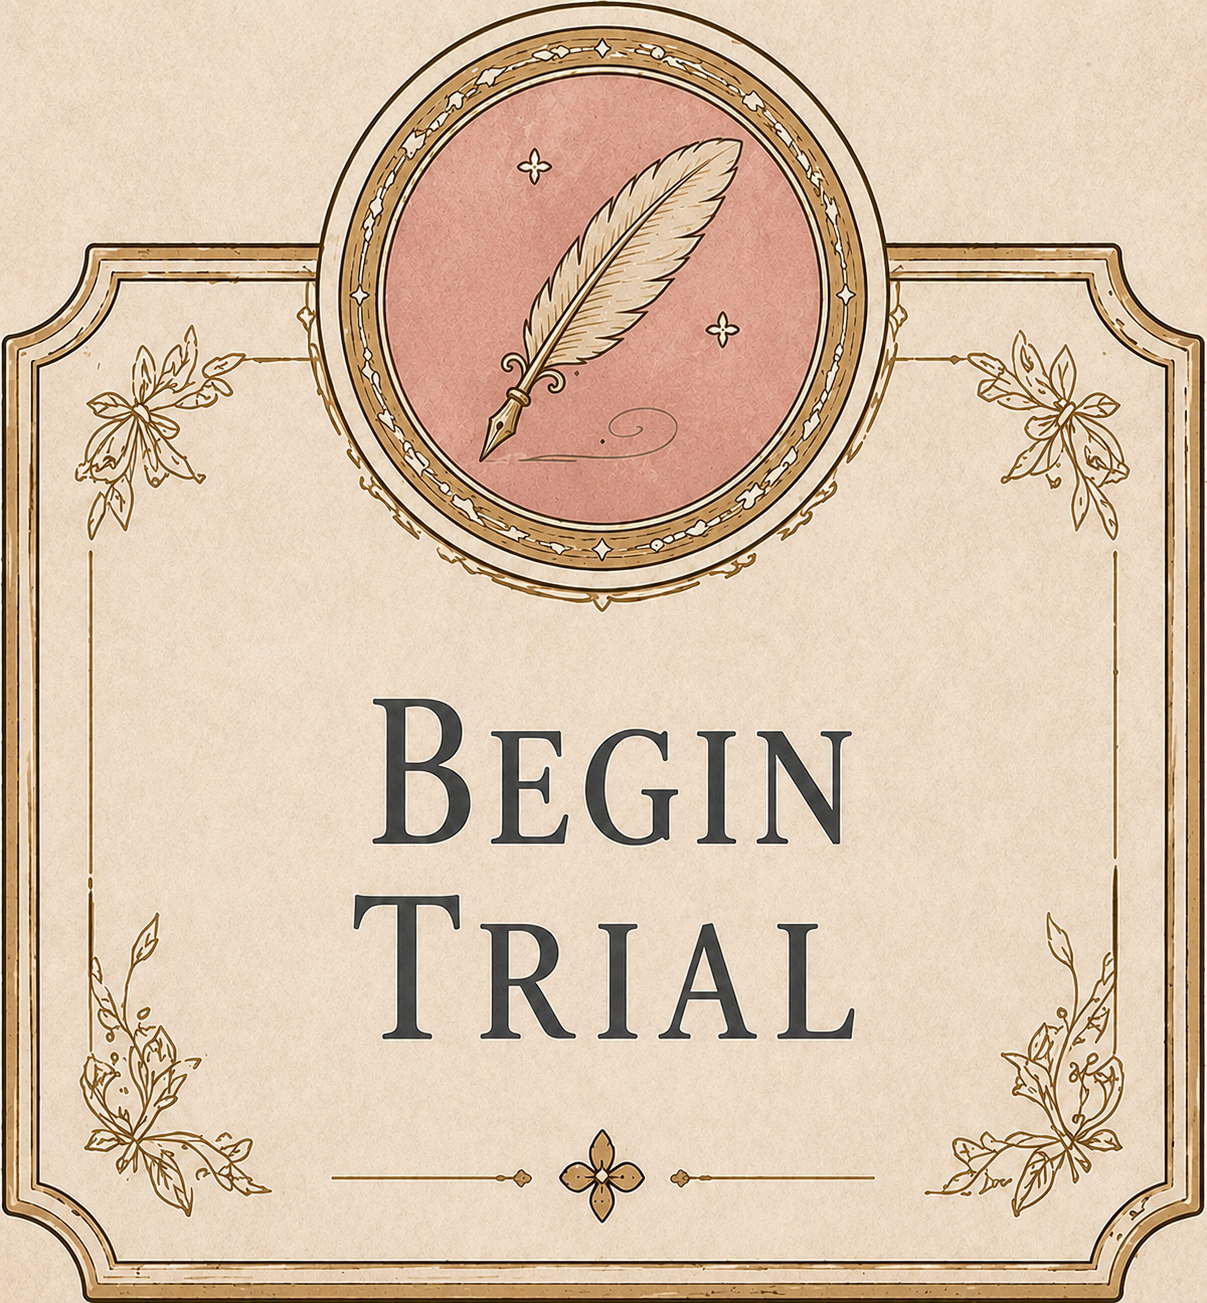
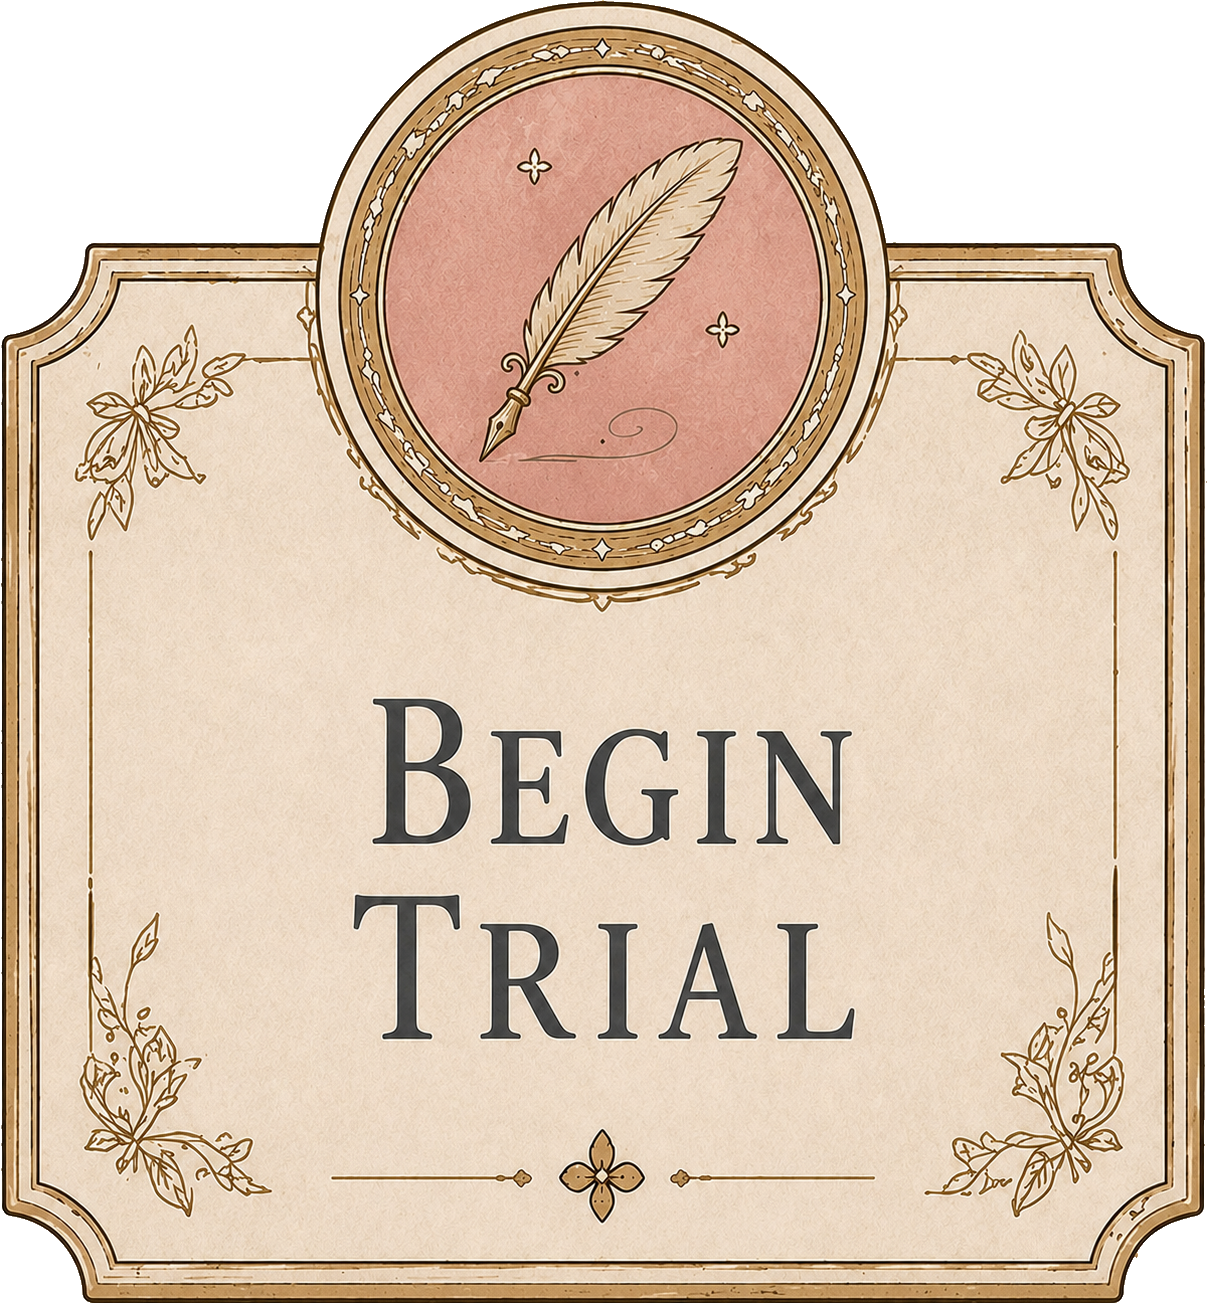
Polish menu arc + Follow station: cut-out buttons, eye crops, titles
- Knock out the cream card background on all 5 menu plaques (corner
  flood-fill to transparency) so they read as painted cut-outs, not
  rectangles.
- Lay the 5 buttons in a downward arc (半圆/倒三角 ∪) framing the
  princess instead of a flat bottom row; Follow Paths sits low-centre.
- Follow station: portraits are now select-then-act; footer is Restart
  (from the top) / Follow (resume the saved sentence). Lower the focal
  crop for Shiro and Kye so their downcast eyes show.
- Make the Save/Load and Follow titles read as engraved banners (larger,
  weighted, flourish-flanked) rather than body text.

diff --git a/index.html b/index.html
@@ -116,28 +116,23 @@
                        background-size: cover; background-position: center; }
   .page.notes-art::before, .page.notes-art::after { display: none; }
 
-  /* FIVE framed-plaque buttons, all the same painted-card style so the
-     cover reads as one set (per "为了一致性五个都换掉"). Two heroes on the
-     upper margins, three plaques across the foot — Begin Trial · Follow
-     Paths · Words Recall. Every card is a self-framed PNG, so they all use
-     `contain` + drop-shadow (no edge-to-edge fill). */
+  /* FIVE framed-plaque buttons (transparent cut-outs) laid in a downward
+     arc — a 半圆/倒三角 ∪ that frames the princess: the outer pair ride high,
+     the inner pair drop, and Follow Paths sits at the low centre. All five
+     touch into one connected curve (not a flat row). */
   .menu-btn {
-    position: absolute; width: 18%;
+    position: absolute; width: 16.5%;
     aspect-ratio: 549 / 596;
+    transform: translate(-50%, -50%);
     background: transparent; border: 0; padding: 0;
     cursor: pointer; z-index: 8;
   }
   .menu-btn:focus { outline: none; }
-  /* Upper hero pair, flanking the princess oval. */
-  .menu-btn.left  { top: 39%; left: 13%;  transform: translateY(-50%); }
-  .menu-btn.right { top: 39%; right: 13%; transform: translateY(-50%); }
-  /* Three plaques across the foot — Trial (left), Paths (centre), Recall (right). */
-  .menu-btn.quiz, .menu-btn.recall, .menu-btn.paths {
-    top: auto; bottom: 3%; transform: none; width: 17%;
-  }
-  .menu-btn.quiz   { left: 20%; }
-  .menu-btn.recall { right: 20%; }
-  .menu-btn.paths  { left: 50%; transform: translateX(-50%); }
+  .menu-btn.left   { left: 13.5%; top: 30.5%; }  /* Start Reading  (arc top-left)  */
+  .menu-btn.quiz   { left: 30.5%; top: 50%;   }  /* Begin Trial    (arc mid-left)  */
+  .menu-btn.paths  { left: 50%;   top: 55%;   }  /* Follow Paths   (arc low centre)*/
+  .menu-btn.recall { left: 69.5%; top: 50%;   }  /* Words Recall   (arc mid-right) */
+  .menu-btn.right  { left: 86.5%; top: 30.5%; }  /* Enter Chapter  (arc top-right) */
   .menu-btn .menu-btn-inner {
     background-size: contain; background-position: center; background-repeat: no-repeat;
     filter: drop-shadow(0 5px 13px rgba(40, 28, 12, 0.34));
@@ -697,16 +692,25 @@
      master-frame), clear of the slot grid that begins at y 18%. */
   .save-banner-title {
     position: absolute; left: 0; right: 0; width: 100%;
-    top: 11.4%; height: 6.6%;
+    top: 9%; height: 9.5%;
     margin: 0;
-    display: flex; align-items: center; justify-content: center;
+    display: flex; align-items: center; justify-content: center; gap: 0.46em;
     text-align: center;
     pointer-events: none;
     font-family: var(--font-display);
-    font-size: 28px; letter-spacing: 0.20em;
+    font-size: clamp(34px, 5.2vw, 58px);
+    font-weight: 600; letter-spacing: 0.14em; line-height: 1;
     text-transform: uppercase;
+    text-shadow: 0 1px 0 rgba(255, 250, 238, 0.6), 0 3px 9px rgba(60, 44, 24, 0.26);
     z-index: 5;
   }
+  /* engraved flourishes flanking the word — turns "content text" into a title */
+  .save-banner-title::before,
+  .save-banner-title::after {
+    content: "❧"; font-size: 0.5em; line-height: 1;
+    color: var(--color-gold-soft); opacity: 0.78; transform: translateY(-0.12em);
+  }
+  .save-banner-title::after { transform: scaleX(-1) translateY(-0.12em); }
   .theme-save .save-banner-title { color: var(--accent-wine); }
   .theme-load .save-banner-title { color: var(--accent-blue); }
   .save-slot-grid {
@@ -1056,9 +1060,8 @@
       <div class="follow-label">Follow</div>
       <ul class="follow-list" aria-label="Story paths"></ul>
       <nav class="follow-ui">
-        <button type="button" class="follow-ui-btn" data-go="#save"><span class="nav-glyph">❦</span>Save</button>
-        <button type="button" class="follow-ui-btn" data-go="#load"><span class="nav-glyph">❧</span>Load</button>
-        <button type="button" class="follow-ui-btn" data-go="#menu"><span class="nav-glyph">✤</span>Menu</button>
+        <button type="button" class="follow-ui-btn" data-follow-restart><span class="nav-glyph">↺</span>Restart</button>
+        <button type="button" class="follow-ui-btn" data-follow-go><span class="nav-glyph">❧</span>Follow</button>
       </nav>
     </div>
   </main>

diff --git a/js/views.js b/js/views.js
@@ -3586,20 +3586,46 @@ const Views = (function () {
       if (!list) return;
       const items = (window.PATHS || []);
       if (!items.length) { list.innerHTML = `<li class="follow-empty">No paths yet.</li>`; return; }
-      list.innerHTML = items.map(p => `
-        <li class="follow-portrait" data-id="${esc(p.id)}"
+      list.innerHTML = items.map((p, i) => `
+        <li class="follow-portrait${i === 0 ? " is-selected" : ""}" data-id="${esc(p.id)}"
             style="background-image:url('assets/portraits/${esc(p.id)}.jpg')">
           <span class="follow-portrait-name">${esc(p.title || p.id)}</span>
         </li>`).join("");
-      items.forEach(p => {
-        const li = list.querySelector(`.follow-portrait[data-id="${cssEsc(p.id)}"]`);
-        if (!li) return;
-        li.addEventListener("click", () => {
-          const sec = p.firstSection || "1";
-          window.__navDir = "forward";
-          window.go(`#reading?chapter=${encodeURIComponent(p.id)}&section=${encodeURIComponent(sec)}&browse=1&ebook=1&from=paths`);
-        });
+
+      // Pick a face, then Restart (from the top) or Follow (resume the saved
+      // sentence). Default to the protagonist you last read, else the first.
+      let sel = 0;
+      let saved = null;
+      try { saved = JSON.parse(localStorage.getItem("tpl.readPos") || "null"); } catch (_) {}
+      if (saved && saved.chapter) {
+        const k = items.findIndex(p => p.id === saved.chapter);
+        if (k >= 0) sel = k;
+      }
+      function paint() {
+        list.querySelectorAll(".follow-portrait").forEach((el, i) =>
+          el.classList.toggle("is-selected", i === sel));
+      }
+      paint();
+      list.querySelectorAll(".follow-portrait").forEach((el, i) => {
+        el.addEventListener("click", () => { sel = i; paint(); });
       });
+
+      function open(line) {
+        const p = items[sel];
+        const first = p.firstSection || "1";
+        let sec = first, ln = 0;
+        if (line && saved && saved.chapter === p.id) {   // Follow → resume in place
+          sec = saved.section || first;
+          ln = Math.max(0, +saved.line || 0);
+        }
+        window.__navDir = "forward";
+        const lf = ln > 0 ? `&line=${ln}` : "";
+        window.go(`#reading?chapter=${encodeURIComponent(p.id)}&section=${encodeURIComponent(sec)}${lf}&browse=1&ebook=1&from=paths`);
+      }
+      const restartBtn = host.querySelector("[data-follow-restart]");
+      const followBtn  = host.querySelector("[data-follow-go]");
+      if (restartBtn) restartBtn.addEventListener("click", () => open(false));
+      if (followBtn)  followBtn.addEventListener("click", () => open(true));
     },
   };
 

diff --git a/css/pages.css b/css/pages.css
@@ -2647,11 +2647,18 @@ body[data-current-view="reading"] .global-bgm-control { display: none; }
 .follow-art .follow-label {
   position: absolute;
   left: 38.881%; top: 26.34%; width: 22.376%; height: 7.182%;
-  display: flex; align-items: center; justify-content: center;
-  font-family: var(--font-display), Georgia, serif; font-weight: 500;
-  font-size: clamp(18px, 2.4vw, 34px); letter-spacing: 0.16em;
-  color: #4a3f2c; text-shadow: 0 1px 0 rgba(255, 250, 235, 0.6);
+  display: flex; align-items: center; justify-content: center; gap: 0.4em;
+  font-family: var(--font-display), Georgia, serif; font-weight: 600;
+  font-size: clamp(20px, 2.9vw, 40px); letter-spacing: 0.12em;
+  color: #5a4a30;
+  text-shadow: 0 1px 0 rgba(255, 250, 235, 0.65), 0 2px 6px rgba(70, 52, 26, 0.22);
 }
+.follow-art .follow-label::before,
+.follow-art .follow-label::after {
+  content: "❧"; font-size: 0.5em; color: var(--color-gold-soft);
+  opacity: 0.8; transform: translateY(-0.1em);
+}
+.follow-art .follow-label::after { transform: scaleX(-1) translateY(-0.1em); }
 
 .follow-art .follow-list {
   position: absolute;
@@ -2667,12 +2674,21 @@ body[data-current-view="reading"] .global-bgm-control { display: none; }
   background: #d8cdb4 center 32% / cover no-repeat;
   transition: transform 160ms ease, box-shadow 160ms ease, filter 160ms ease;
 }
+/* Shiro and Kye are drawn looking down, so the default upper-third crop
+   misses their eyes — pull the focal slice lower for those two. */
+.follow-art .follow-portrait[data-id="shiro"] { background-position: center 48%; }
+.follow-art .follow-portrait[data-id="kye"]   { background-position: center 45%; }
 .follow-art .follow-portrait:hover {
   transform: translateX(6px) scale(1.012);
   box-shadow: 0 6px 18px rgba(70, 56, 32, 0.4);
   filter: brightness(1.06);
 }
 .follow-art .follow-portrait:active { transform: translateX(3px) scale(0.995); }
+.follow-art .follow-portrait.is-selected {
+  border-color: rgba(196, 158, 84, 0.95);
+  box-shadow: 0 0 0 2px rgba(196, 158, 84, 0.85), 0 6px 18px rgba(70, 56, 32, 0.42);
+  filter: brightness(1.04);
+}
 .follow-art .follow-portrait-name {
   position: absolute; left: 0; right: 0; bottom: 0;
   padding: 0.35em 0.9em 0.3em;
